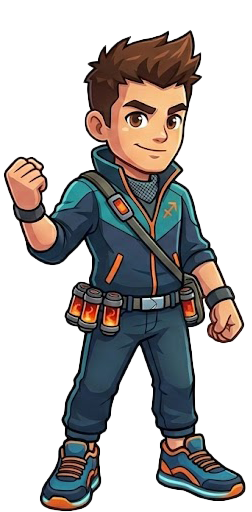
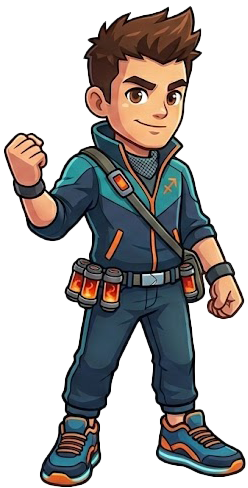
Cut Scene FullBodyImg

diff --git a/Assets/SEP490/Gameplay/Story/Scripts/UI/UIDialogFrame.cs b/Assets/SEP490/Gameplay/Story/Scripts/UI/UIDialogFrame.cs
@@ -69,7 +69,7 @@
 
             BaseCharacterSO character = _characterConfig.GetCharacterById(speakerID);
             m_SpeakerNameTmp.text = character.CharacterName;
-            m_Image.sprite = character.Thumbnail;
+            m_Image.sprite = character.FullBodyImg;
 
             _fullDialogText = dialog;
 
